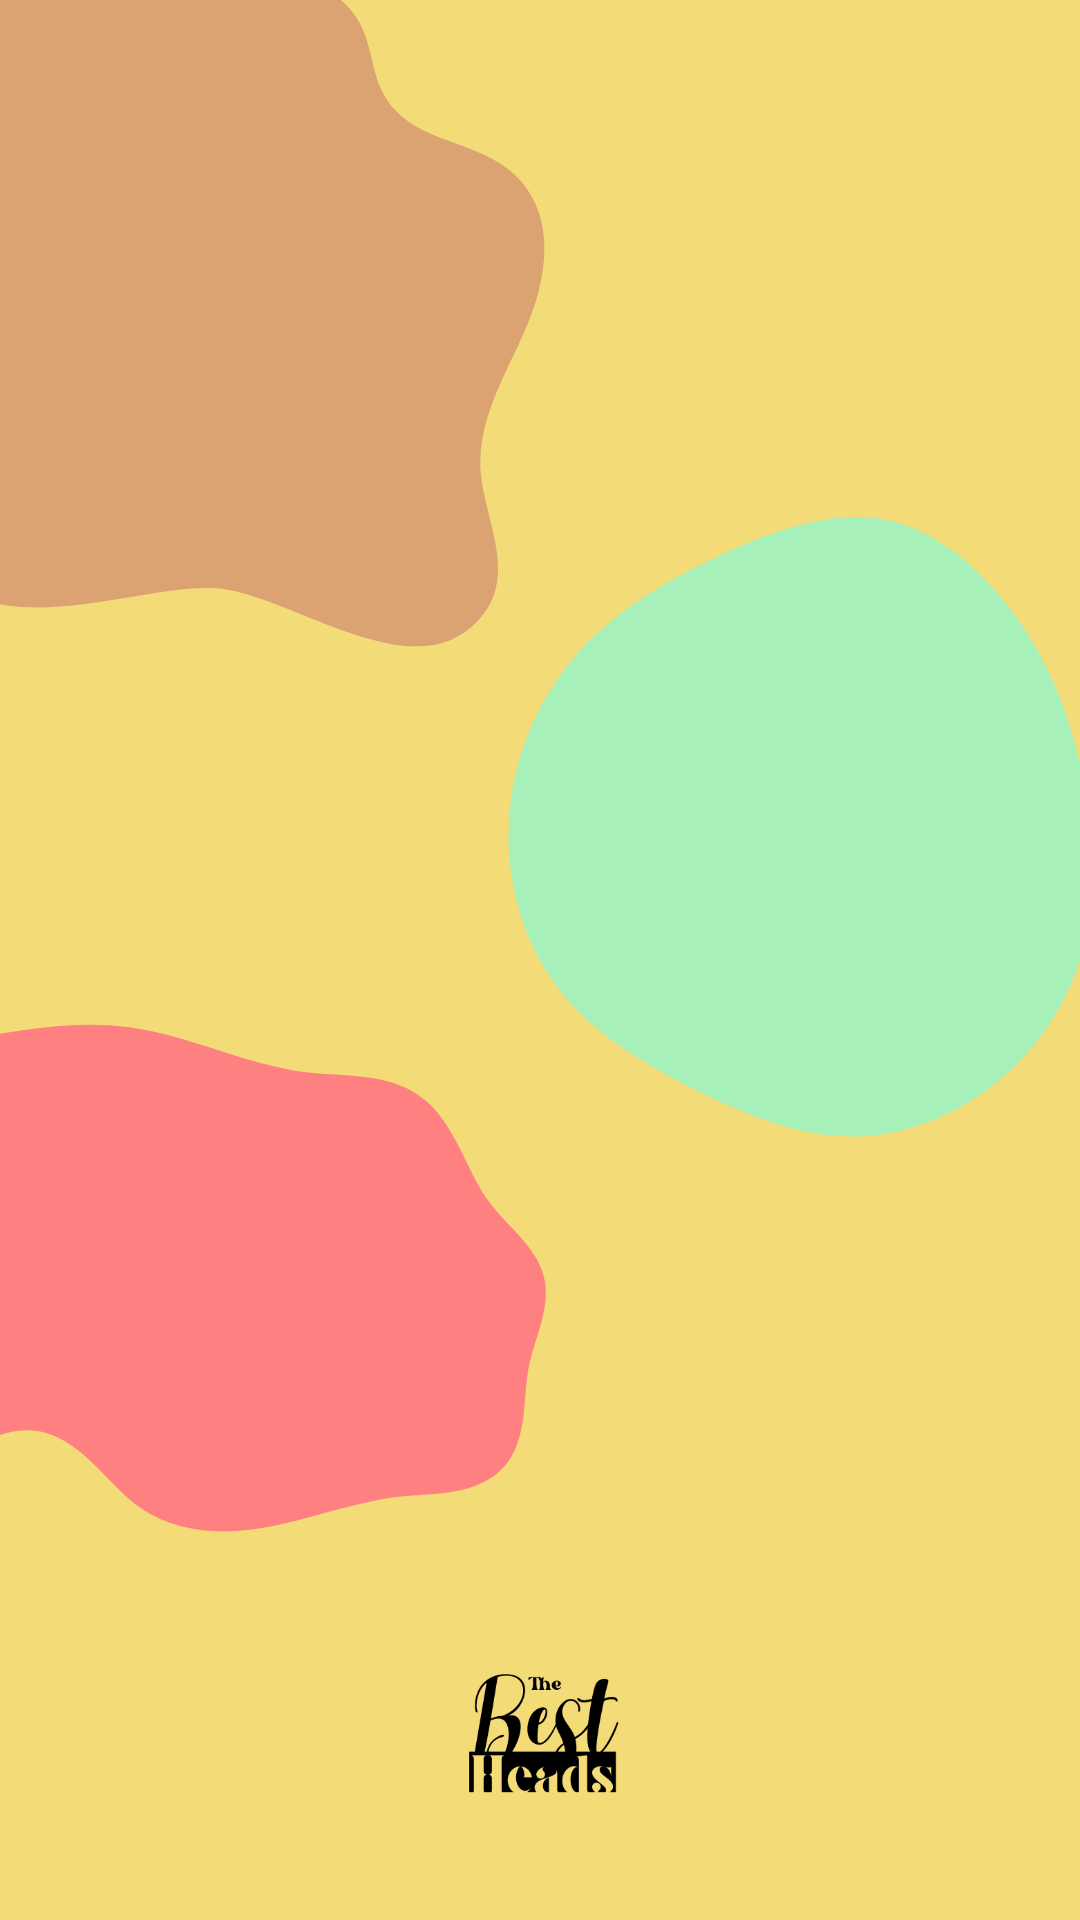
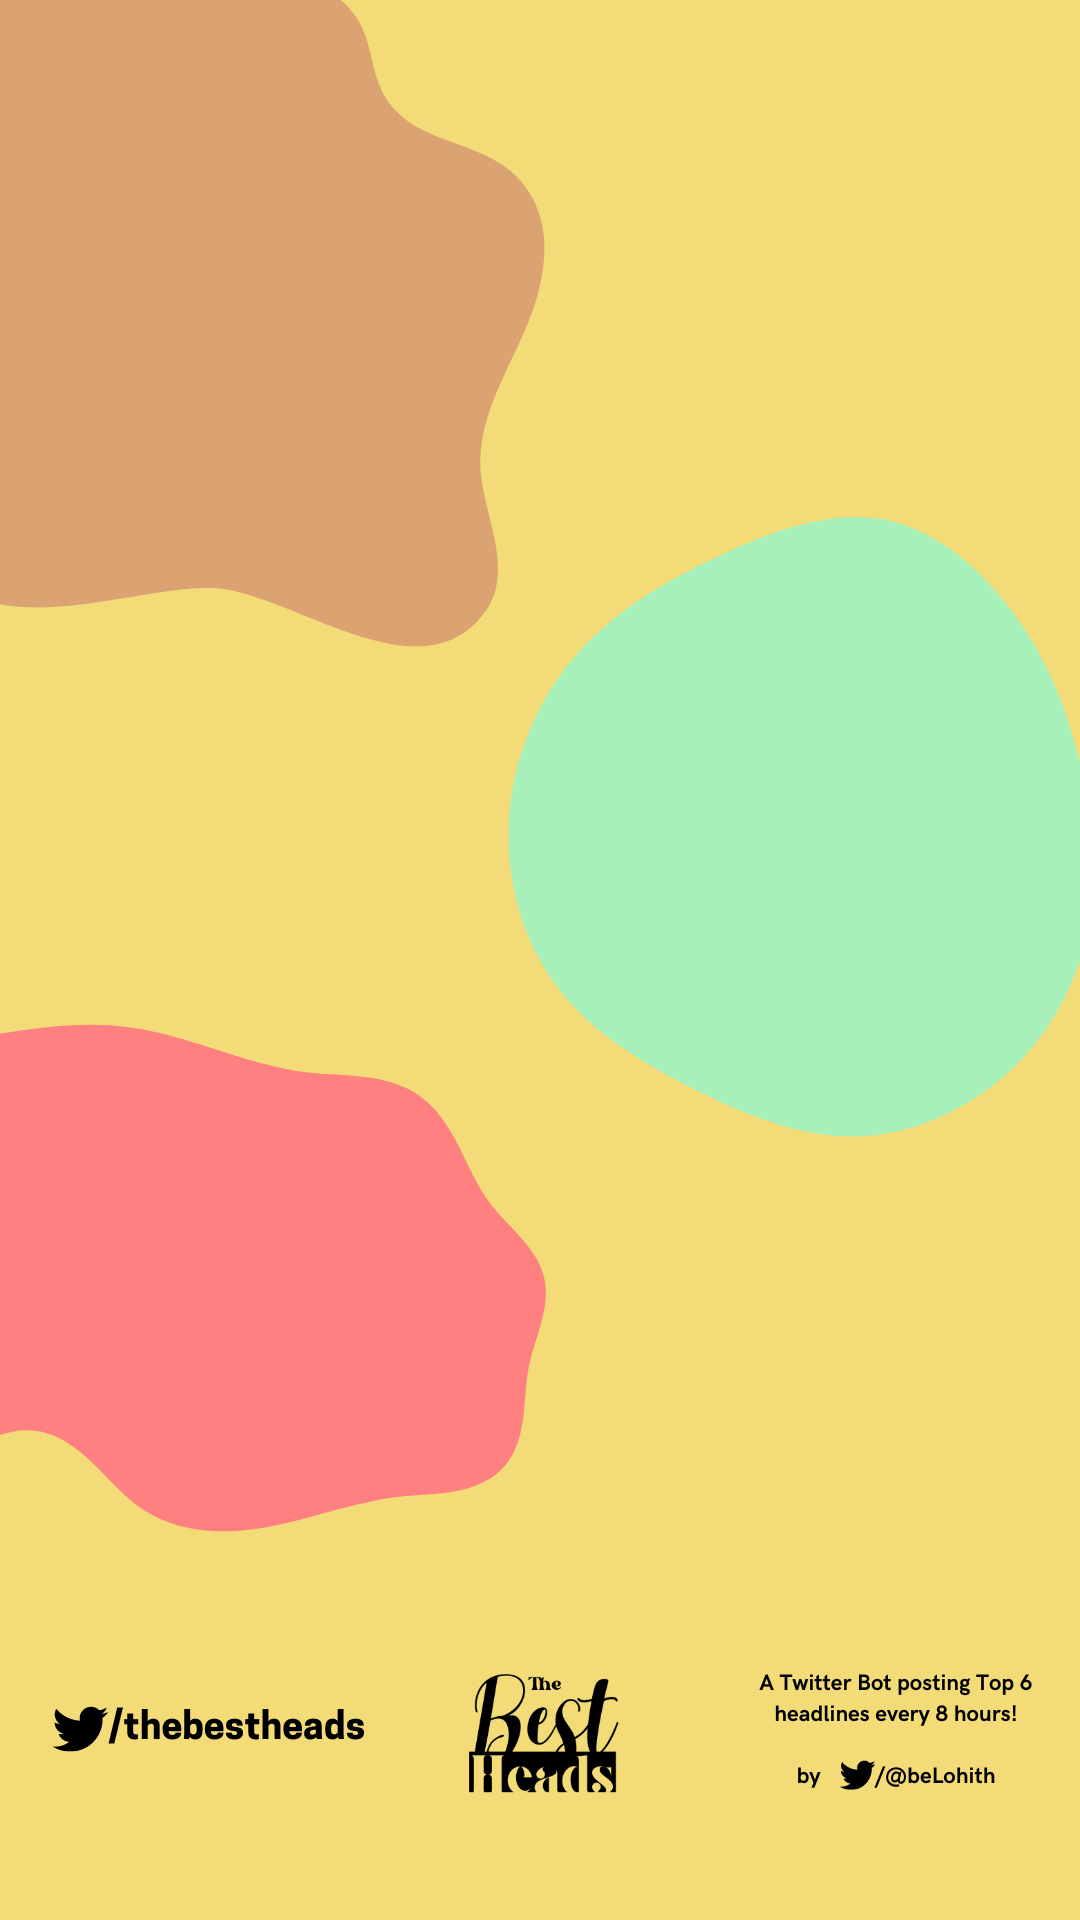
ok

Changed region(s): [[0.7028, 0.875, 0.9472, 0.9375], [0.0306, 0.875, 0.3361, 0.9375]]

diff --git a/main.py b/main.py
@@ -39,7 +39,7 @@ def adding_text(img, text, position, size, colour):
 
 
 url = 'https://www.nytimes.com/section/'
-topic = ['technology', 'science', 'politics', 'sports', 'business', 'style']
+topic = ['technology', 'science', 'politics', 'sports', 'business', 'health']
 i = 0
 
 hkgrotesk = 'fonts/hkgrotesk.ttf'
@@ -107,9 +107,10 @@ def scrape_news():
     img.write_text_box((575, 1250), news_b_5, box_width=400, font_filename=hkgrotesk, font_size=25, color=color, place='center')
     img.save('img/whitetext.png')
     time.sleep(10)
-    tweet(api, '', 'img/whitetext.png')
+    tweet(api, 'THE BEST HEADS: Top 6 headlines around the world! Follow @thebestheads #tbh #thebestheads 🔥', 'img/whitetext.png')
 
 if __name__ == '__main__':
     api = api()
     while True:
         scrape_news()
+        time.sleep(28800)
